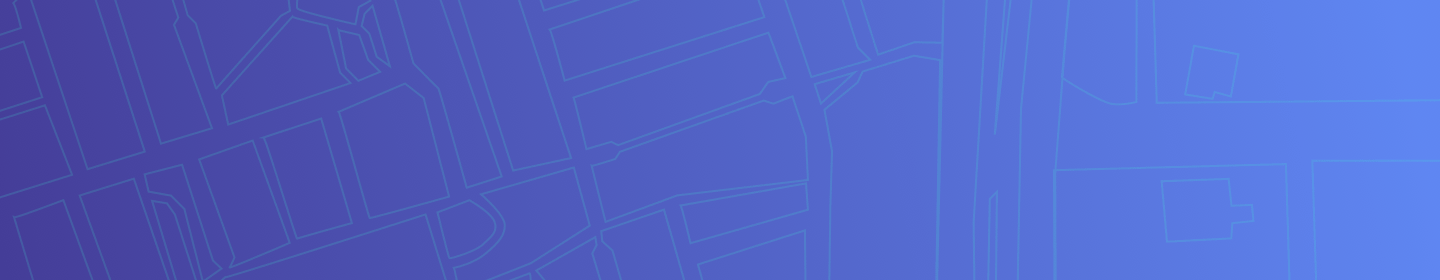
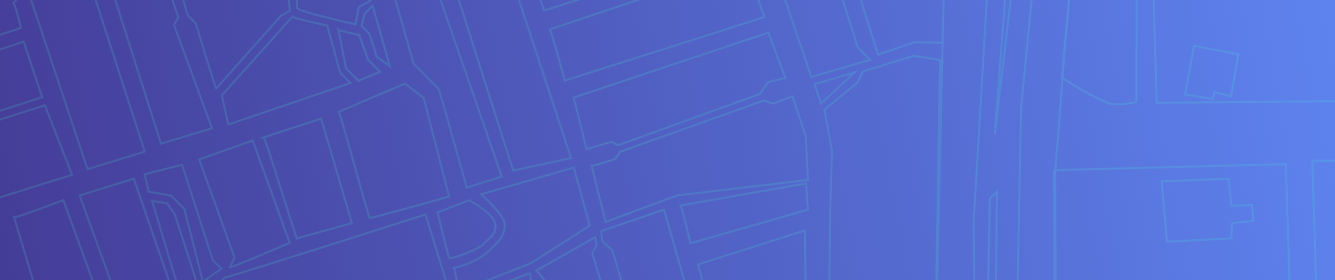
deploy

diff --git a/src/styles.css b/src/styles.css
@@ -8,21 +8,19 @@ body{
    
 }
 .bgcontainer{
-    width:100%;
     height:320px;
+   
 }
 h2{
     text-align: center;
     font-weight: 500;
-    font-size: 30px
+    font-size: 35px
 
 }
 .ipaddsearch{
     display: flex;
     justify-content: center;
     flex-direction: row;
-   
-
 }
 .maindiv{
     position: absolute;
@@ -32,10 +30,9 @@ h2{
 }
 .input{
     padding:14px;
-    width:300px;
+    width:270px;
     border:2px solid black;
     font: bold;
-    
 }
 .searchbtn{
     background-color: white;
@@ -62,7 +59,6 @@ h2{
     width: fit-content;
 }
 .griddiv{
-
     display: flex;
     width:300px;
     height:110px;
@@ -89,7 +85,14 @@ p{
     margin-top: 5px;
 
 }
-#map { height: 500px; }
+/* #map {
+     height: 500px;
+     width:max-content;
+
+ } */
+ .mapcontainer{
+    height:500px;
+ }
 
 .errtext{
     color:#B0FC38;
@@ -98,3 +101,62 @@ p{
     padding-top:10px;
     margin:0;
 }
+@media (max-width: 850px) {
+    .mapcontainer{
+        width:425px;
+        margin:0;
+        padding:0;
+        z-index: 0;
+    }
+
+    .infocontainer{
+        
+        flex-direction: column;
+        width:300px;
+        position: absolute;
+        top: 170px; 
+        left: 10px;
+        z-index: 1000;
+        padding:12px;
+        border-radius: 15px;
+        
+    }
+    .griddiv{
+        
+        width:150px;
+        height:50px;
+        flex-direction: column;
+        border-bottom:1px solid grey;
+        border-right:1px solid transparent;
+        padding:0px;
+        padding-bottom:40px;
+    }
+    .bgcontainer{
+        width:427px;
+    }
+    .maininfo{
+        font-size:17px;
+        margin-top:0;
+        padding:0;
+        
+    }
+    .maindiv{
+        left:8%;
+        
+    }
+    MarkerPosition{
+        z-index:10000;
+
+    }
+    
+  }
+/* @media (max-width: 380px) {
+    .mapcontainer{
+        width:450px;
+        margin:0;
+        padding:0;
+        z-index: 0;
+    }
+    
+
+} */

diff --git a/src/IpTracker.js b/src/IpTracker.js
@@ -6,6 +6,7 @@ import "leaflet/dist/leaflet.css";
 import { MapContainer, TileLayer } from "react-leaflet";
 import MarkerPosition from "./MarkerPosition";
 import searchlogo from "./images/searchh.png";
+import bluebg2 from "./images/pattern-bg-mobile.png"
 
 function IpTracker() {
   const [ipData, setIpData] = useState({
@@ -69,10 +70,10 @@ function IpTracker() {
     <>
    
       <div>
-        <img className="bgcontainer" src={bluebg}></img>
+        <img className="bgcontainer" src={window.screen.width<=425?bluebg2:bluebg}></img>
       </div>
       <div className="maindiv">
-        <h2>IP Address Tracker</h2>
+        <h2>TraceSpot</h2>
 
         <div className="ipaddsearch">
           <input
@@ -100,7 +101,7 @@ function IpTracker() {
           </div>
           <div className="griddiv">
             <p className="infoheading">Location</p>
-            <p className="maininfo">{ipData.loc}</p>
+            <p className="maininfo" id="locationgrid">{ipData.loc}</p>
           </div>
           <div className="griddiv">
             <p className="infoheading">TimeZone</p>
@@ -117,7 +118,8 @@ function IpTracker() {
       <MapContainer
         center={myArray.length === 0 ? [51.505, -0.09] : myArray}
         zoom={13}
-        style={{ height: "500px" }}
+        // style={{ height: "500px",width: "600px" }}
+        className="mapcontainer"
       >
         <TileLayer
           attribution='&copy; <a href="https://www.openstreetmap.org/copyright">OpenStreetMap</a> contributors'
